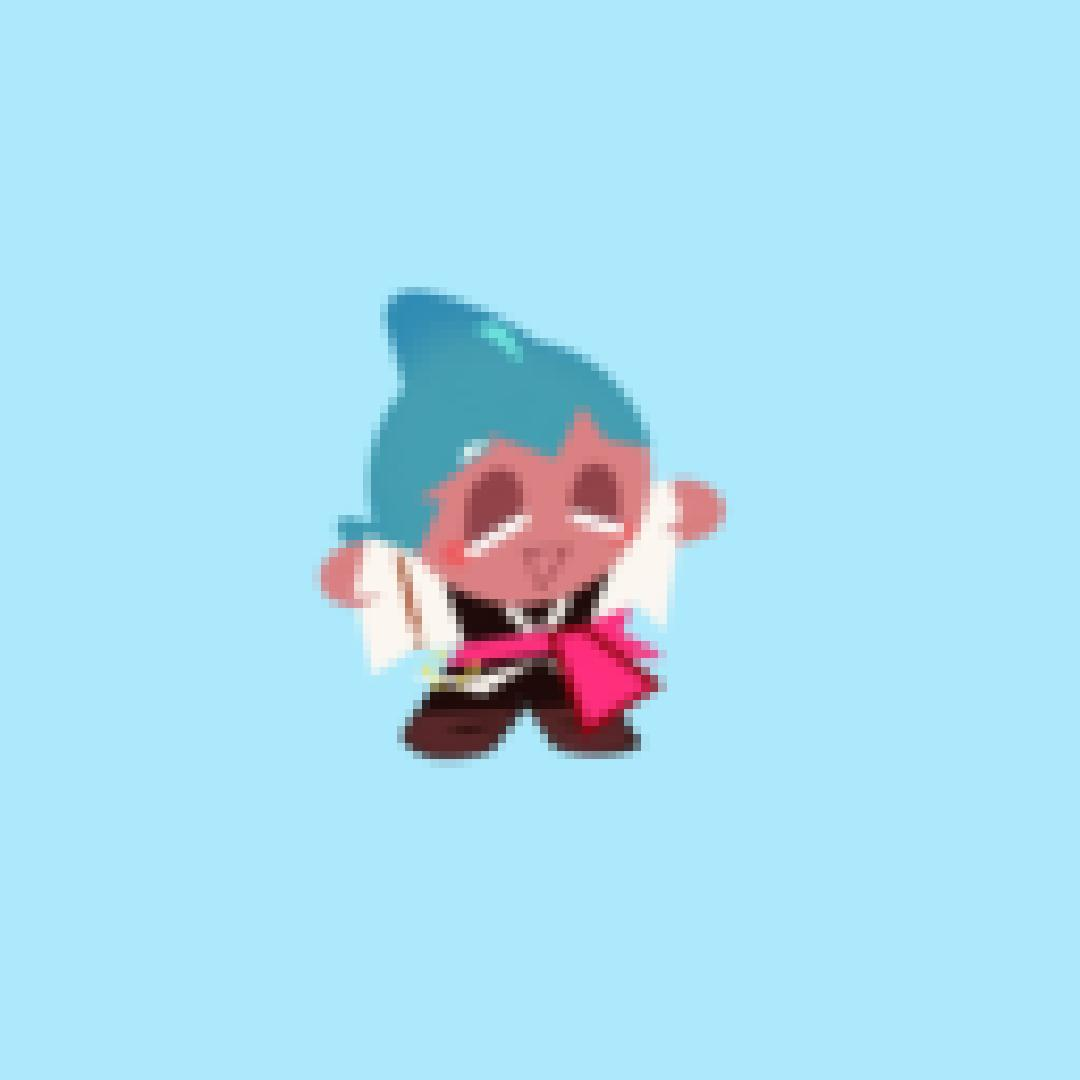
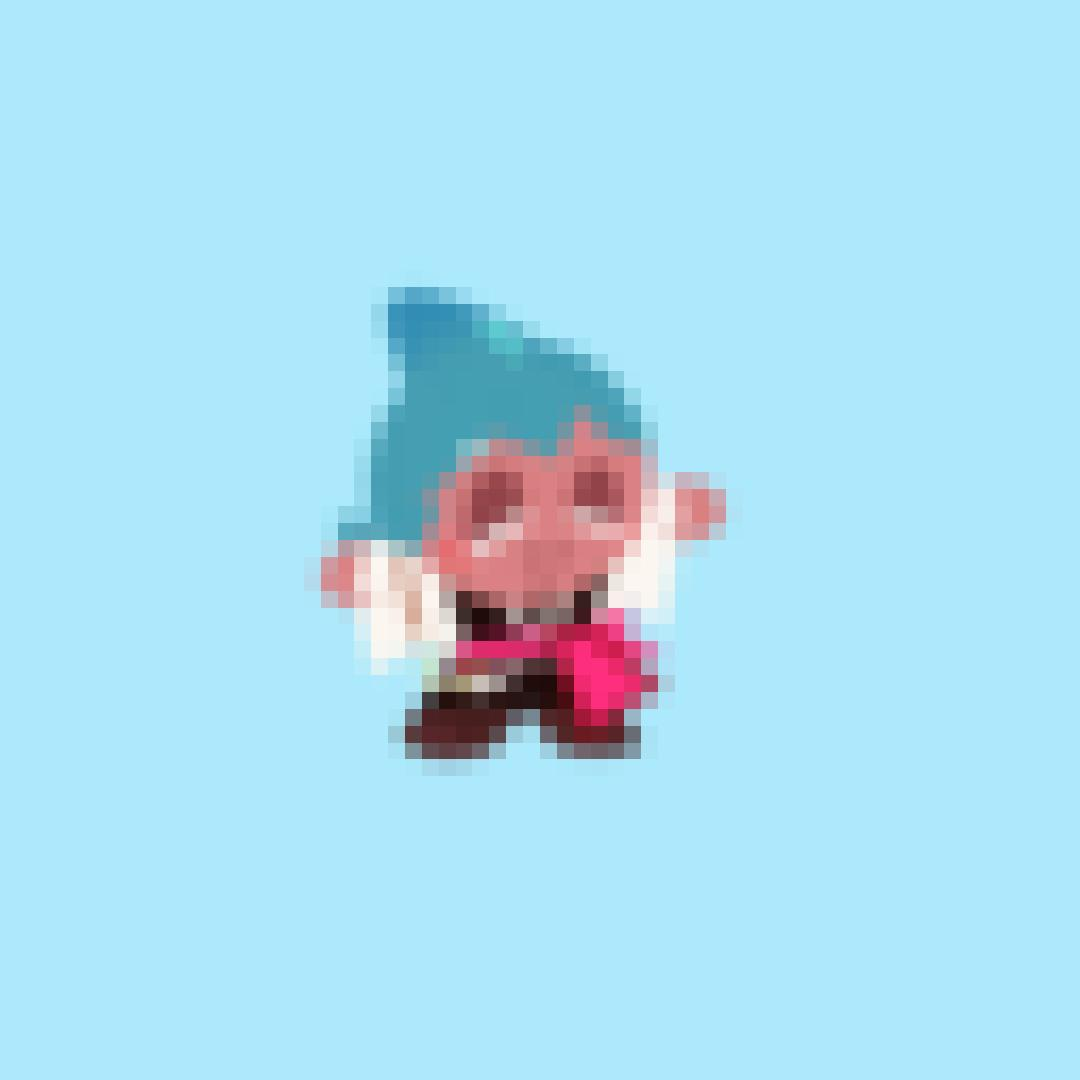
edit and up

Changed region(s): [[0.3056, 0.2444, 0.6722, 0.7028]]

diff --git a/frontend/src/components/edit.js b/frontend/src/components/edit.js
@@ -1,5 +1,5 @@
 import react, { useState, useEffect } from 'react';
-import imagePath from '../../../backend/images'
+import imagePath from '../../src/images/newPic.jpg'
 const Edit = () => {
     const [imageName, setImageName] = useState("")
     const [data, setData]  = useState([{}])
@@ -54,7 +54,7 @@ const Edit = () => {
                     <tr>
                         <td width="50%" >
                             <div className="editPic">
-                                <img src= {`${imagePath}/${imageName.image_name}`}/>
+                                <img src= {imagePath}/>
                             </div>
                         </td>
                         <td width="25%">

diff --git a/backend/generatePixel.py b/backend/generatePixel.py
@@ -1,15 +1,16 @@
 from PIL import Image
 
 def resizeImage():
-    resolution = 128
-    myImage = Image.open("images/shark.jpg")
+    resolution = 64
+    myImage = Image.open("../public_html/uploads/1642244711846-258836425_926269641604849_4976627869693203958_n.jpg")
 
     smallImage = myImage.resize( (resolution,resolution), Image.BILINEAR)
 
     resultImage = smallImage.resize(myImage.size, Image.NEAREST)
     # resultImage = myImage.resize((16,16))
 
-    resultImage.save("images./newPic.jpg")
+    resultImage.save("../frontend/src/images/newPic.jpg")
 
 if __name__ == '__main__':
     resizeImage()
+
